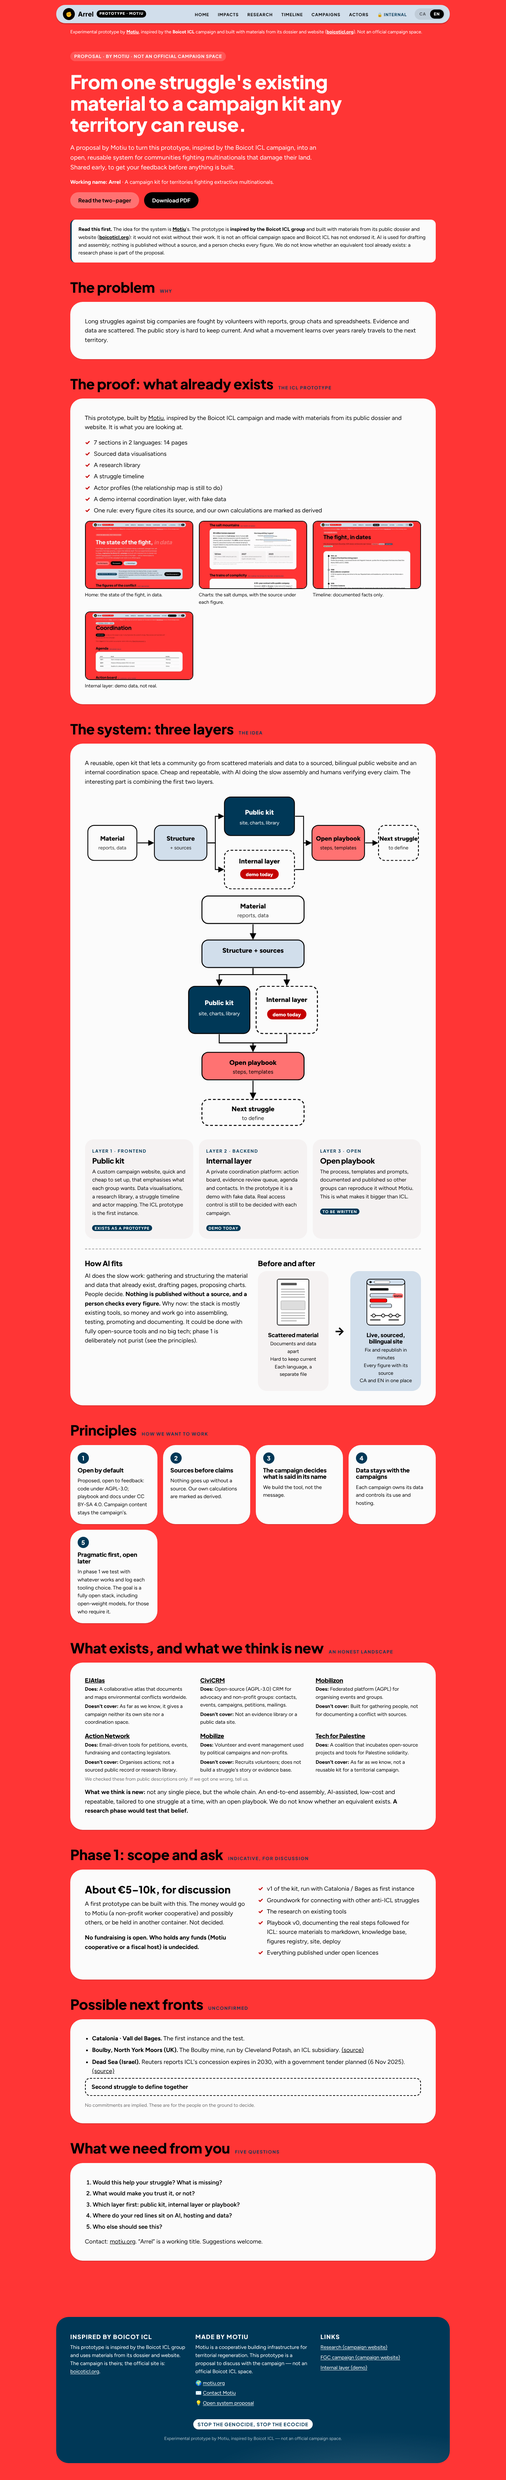
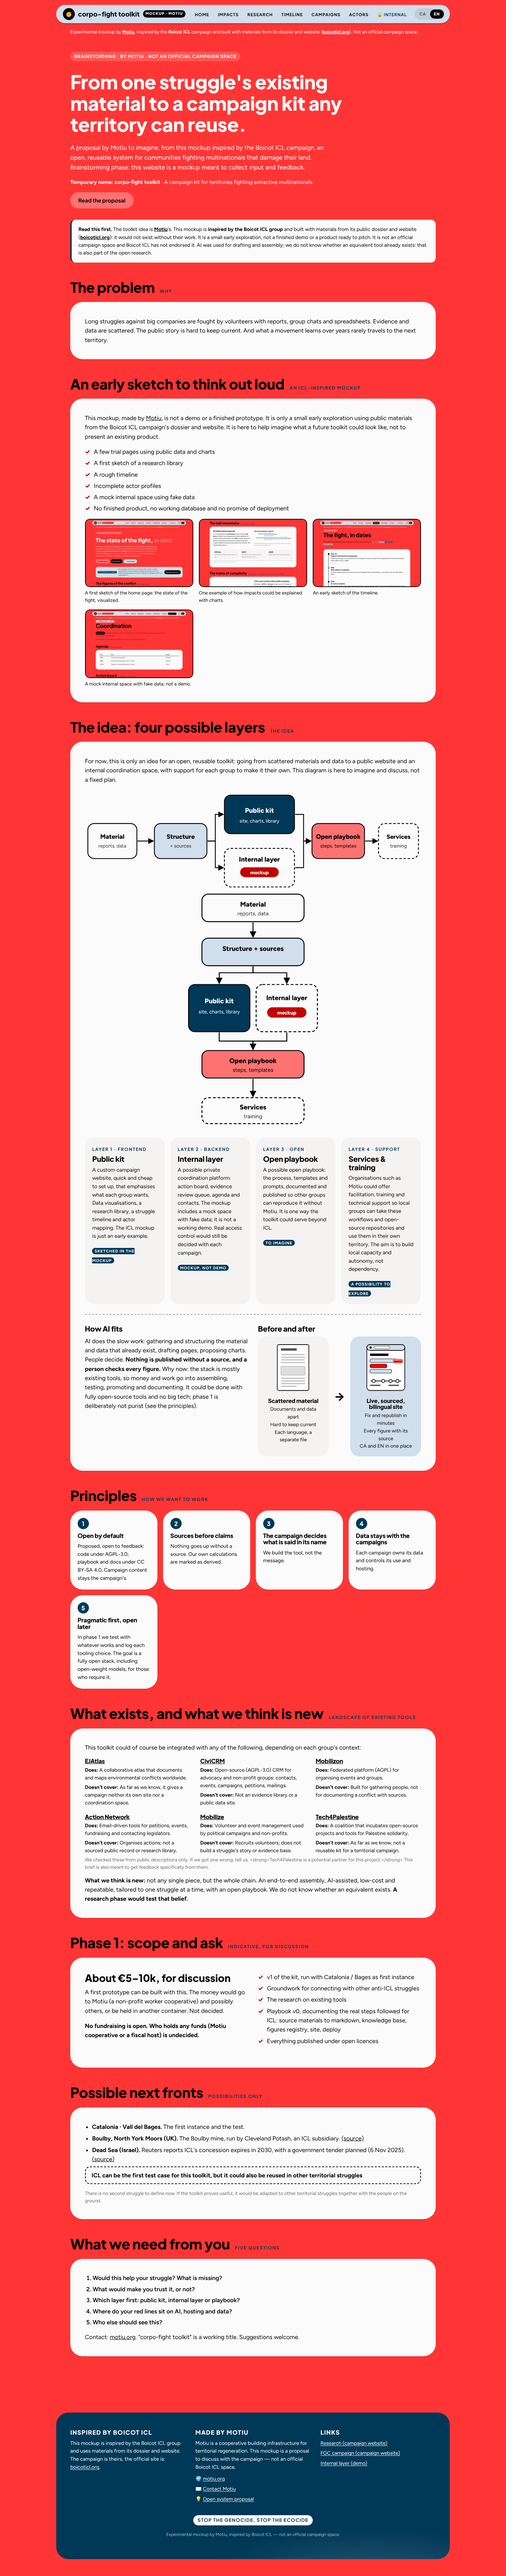
Finish mockup wording on credit strip/README, fix diagram pill, 4-column layers, KB decisions
Claude-Session: https://claude.ai/code/session_01JqWxLFuYEJ29nGNmW3EvpP

Changed region(s): [[0.125, 0.0, 0.875, 0.9976]]

diff --git a/boicot-icl-knowledge/proposta-sistema.md b/boicot-icl-knowledge/proposta-sistema.md
@@ -33,6 +33,15 @@ Full de ruta: Catalunya / Vall del Bages = primera instància i prova → punt d
 - Captures reals del build a `src/assets/proof/` (CA i EN, generades amb `screens/proof.cjs`). La de la capa interna es fa amb la demo desbloquejada via `sessionStorage`; no hi apareix cap contrasenya.
 - **PDF retirat (2026-10-27, a petició de Giulio):** no hi ha botó ni fitxers a `public/downloads/`; es comparteix la pàgina web. L'estil d'impressió (`@media print`, 2 pàgines A4) i `screens/pdf.cjs` es mantenen per si es vol regenerar. Detall tècnic anterior: `public/downloads/sistema-{ca,en}.pdf`, 2 pàgines A4 cadascun (verificat amb `screens/pdfcheck.py`; PyMuPDF no instal·lat, s'usa pypdf). `screens/pdf.cjs` usa el Chromium de Playwright perquè puppeteer no hi és (mateixa API `page.pdf`).
 
+### Decisions 2026-10-29 (petició de Giulio)
+
+- Nom provisional **«corpo-fight toolkit»** (abans «Arrel»); es diu a la pàgina que és provisional.
+- Tot és un **mockup en fase de brainstorming**, no un prototip ni una demo; la pàgina no vol semblar un pitch. S'ha canviat el llenguatge a tot el web, inclosa la franja d'atribució de totes les pàgines.
+- Afegida la **capa 4: serveis i formació** (organitzacions com Motiu acompanyen perquè els grups locals facin servir els fluxos i repos oberts al seu territori, sense dependència).
+- **Tech4Palestine** com a possible soci; la proposta també vol recollir-ne feedback específic.
+- «Segona lluita per definir» substituït per «ICL com a primer cas de prova; reutilitzable en altres lluites».
+- Subtítol de l'Inici: «L'estat de la lluita, visualitzat» (vegeu opcions a la conversa).
+
 ## 3. Opcions de nom
 
 Pendents: **comprovacions de domini i marca** (no fetes) i que la comunitat hi doni el seu parer.
@@ -85,7 +94,7 @@ Les frases «no cobreix…» de la pàgina són **judici propi** («que sapiguem
 
 ## 5. Preguntes obertes (no bloquegen)
 
-1. Quina segona lluita concreta? (Giulio l'afegirà; la pàgina té un espai marcat.)
+1. ~~Quina segona lluita concreta?~~ Ja no cal definir-la: ICL és el primer cas de prova i el toolkit pot servir a altres lluites territorials (decisió 2026-10-29).
 2. Nom definitiu (+ comprovacions de domini i marca).
 3. Qui custodia els fons i quin és el desglossament real del pressupost.
 4. Les organitzadores del Bages han vist el prototip? **El seu vistiplau va abans de qualsevol difusió més àmplia**, i un esforç internacional de recaptació no ha de competir amb el de la campanya.

diff --git a/README.md b/README.md
@@ -1,6 +1,6 @@
 # corpo-fight toolkit (nom provisional) — estat de la lluita contra ICL: proposta experimental de Motiu
 
-**Prototip experimental de [Motiu](https://motiu.org)** (cooperativa d'infraestructura per
+**Mockup experimental de [Motiu](https://motiu.org)** (cooperativa d'infraestructura per
 la regeneració territorial), **inspirat en el grup Boicot ICL** i fet amb materials del seu dossier i del seu web. La campanya és seva; això és una proposta de Motiu per discutir-hi.
 No és un espai oficial de la campanya: complementa [boicoticl.org](https://boicoticl.org)
 amb una eina visual de l'estat de la lluita (aigua, runams, trens FGC, laboral,
@@ -27,9 +27,9 @@ npm run build      # build estàtic → dist/
 
 ## Estat
 
-Prototip v1: 7 seccions × 2 llengües, gràfics SVG estàtics, porta interna de
+Mockup v1: 7 seccions × 2 llengües, gràfics SVG estàtics, porta interna de
 demo (contrasenya `icl-2026` — autenticació real pendent de decisió).
-Pàgina nova `/sistema/` (CA) i `/en/sistema/` (EN): proposta de sistema obert, amb PDF de dues pàgines a `public/downloads/`. Proposta experimental; no desplegar sense el vistiplau de la campanya (vegeu `boicot-icl-knowledge/`).
+Pàgina nova `/sistema/` (CA) i `/en/sistema/` (EN): proposta de sistema obert. Proposta experimental; no desplegar sense el vistiplau de la campanya (vegeu `boicot-icl-knowledge/`).
 Contingut integrat (2026-10-29): les transcripcions completes del dossier i de les
 dues tesis d'Iona Crusat són a `boicot-icl-knowledge/sources/` (Markdown) i la seva
 informació s'ha incorporat a les parts que descriuen la lluita actual (danys,
